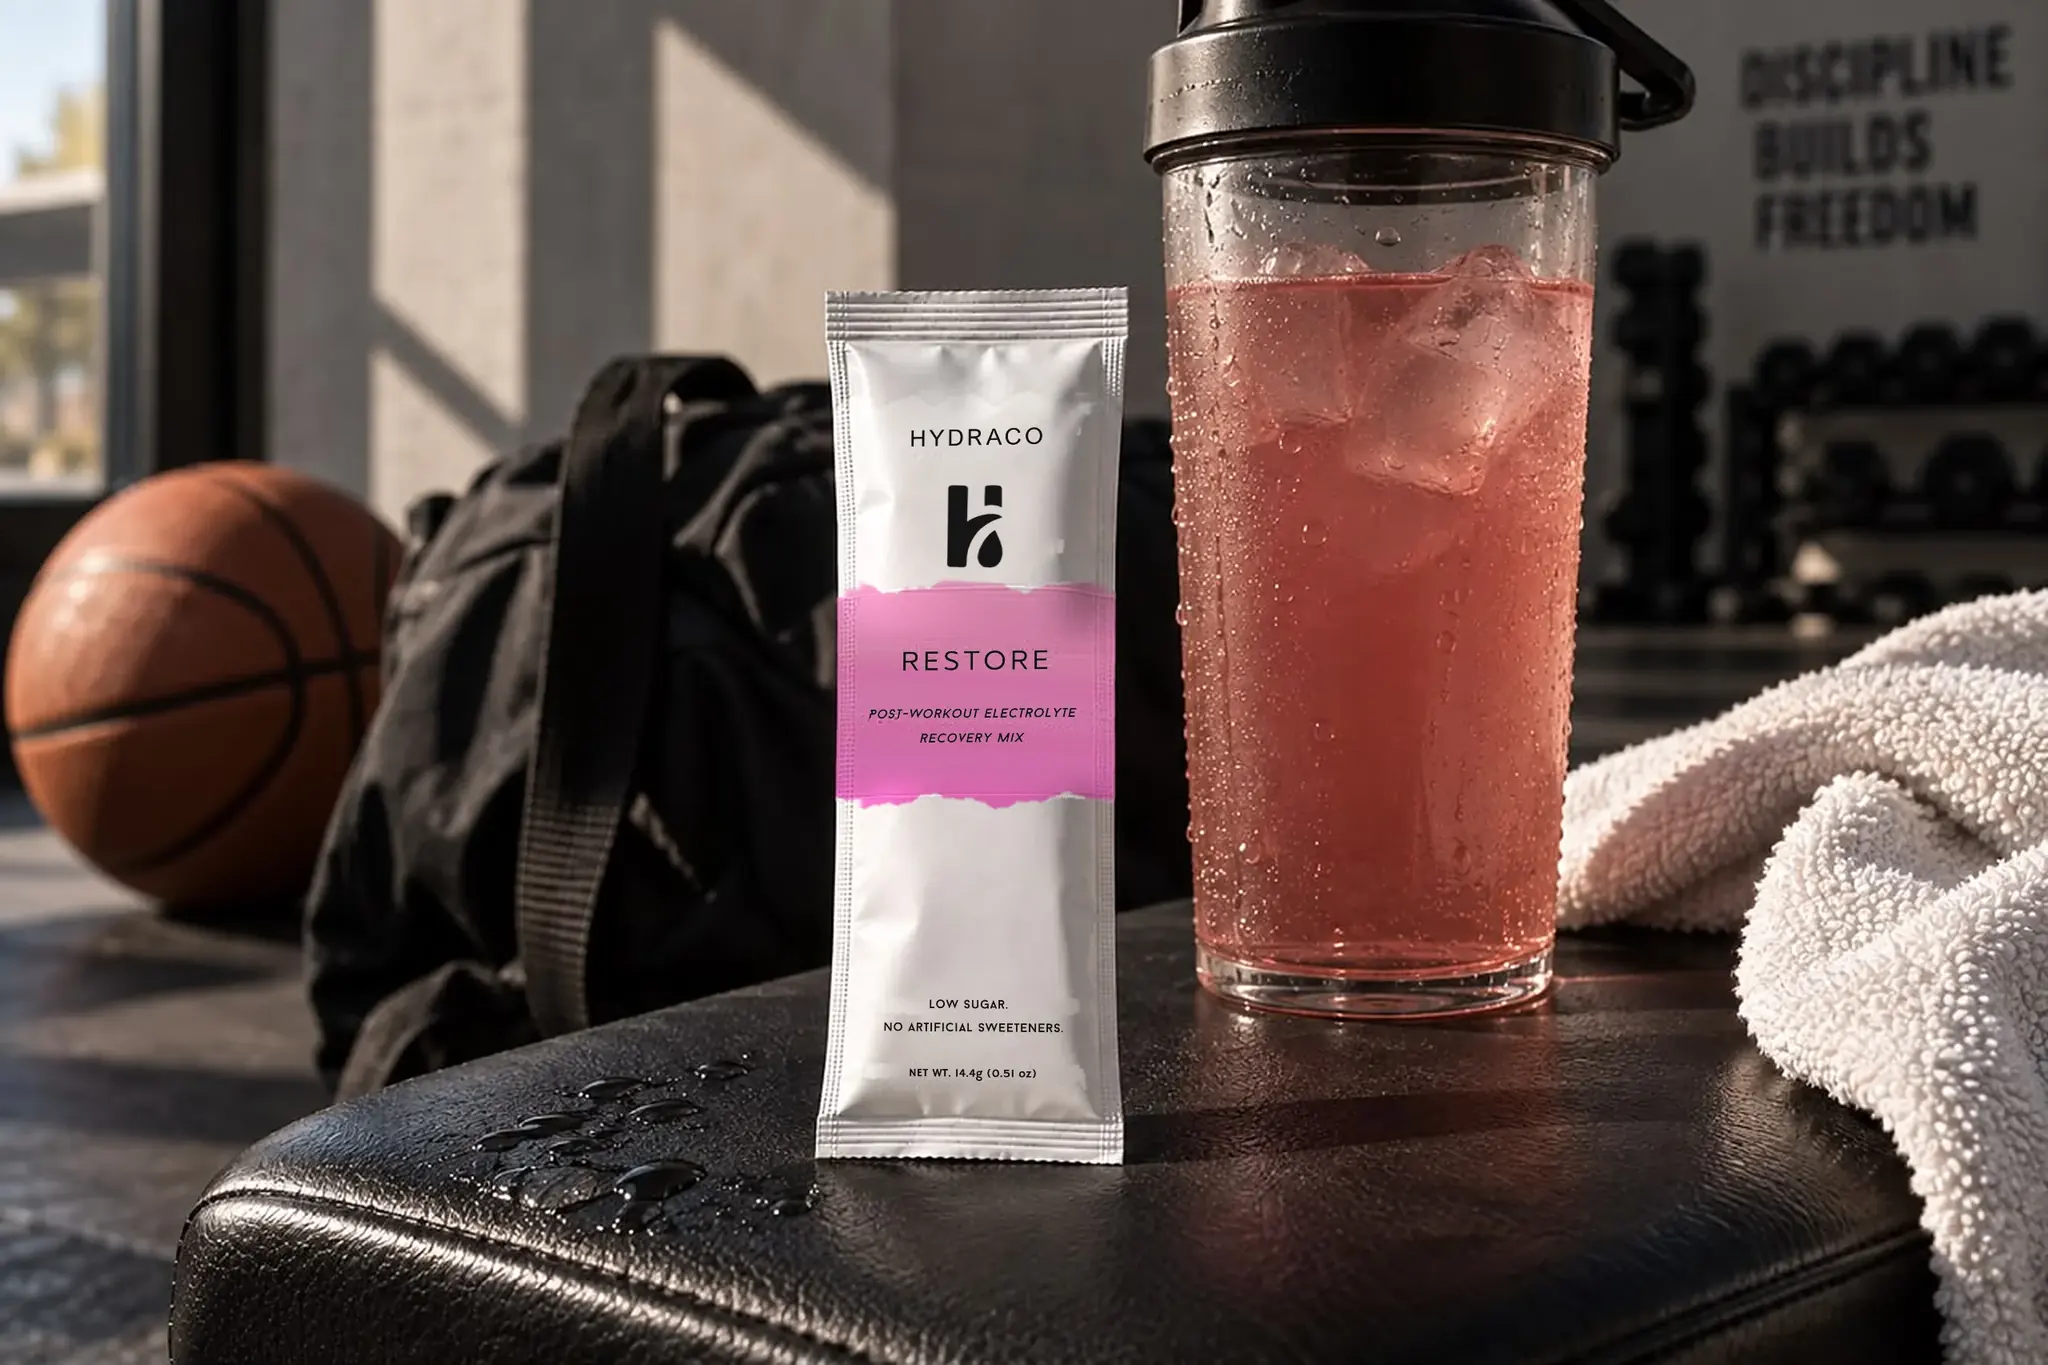
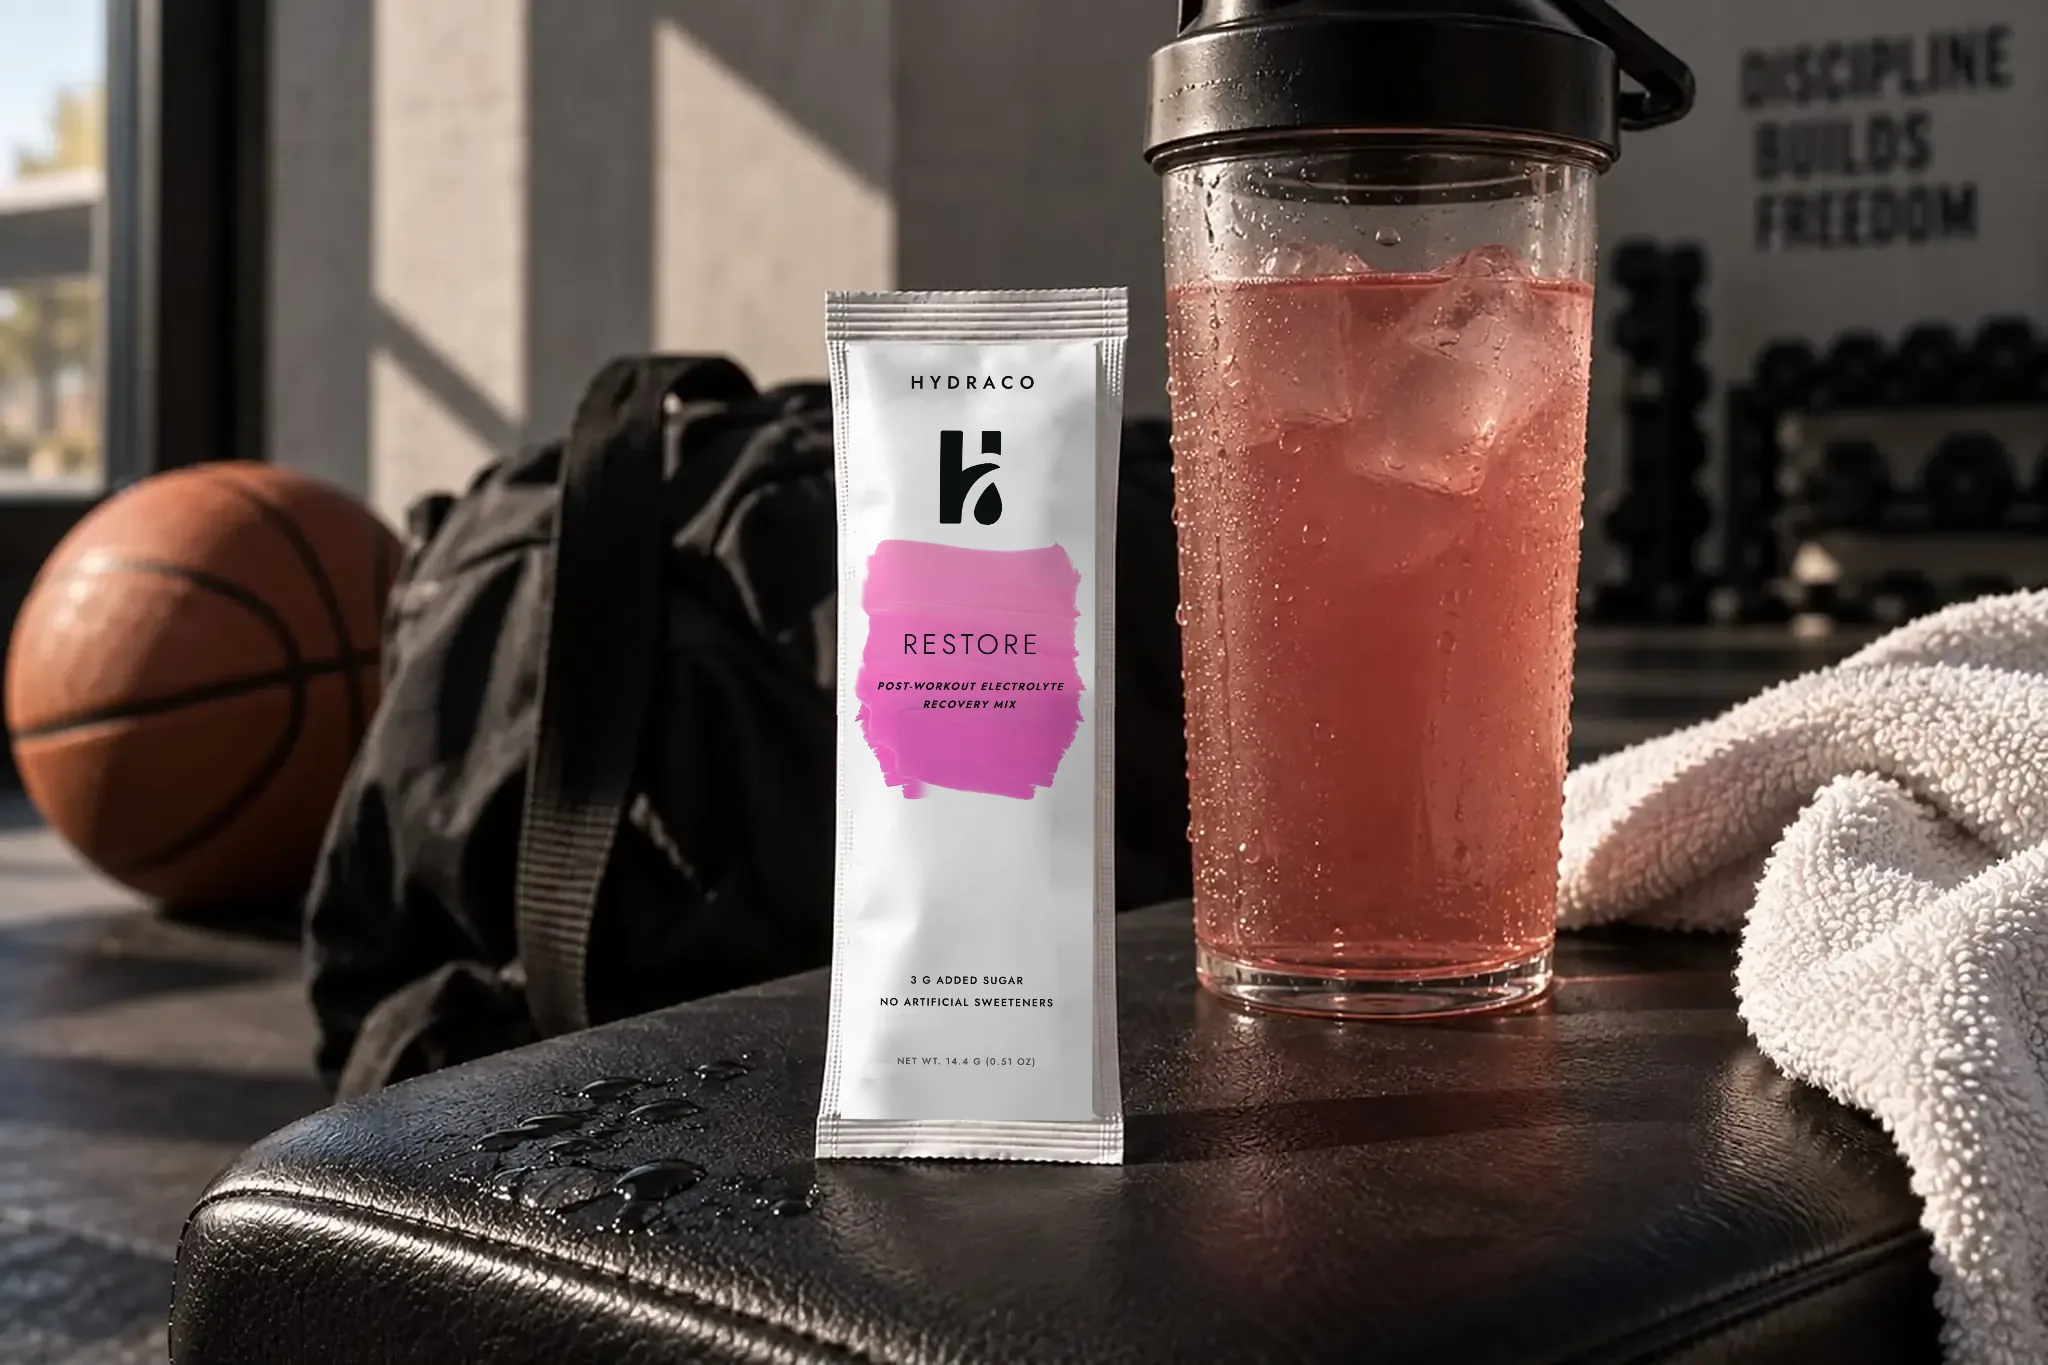
Show the new pack design in every product photo (Restore and Hydrapro)

Changed region(s): [[0.4062, 0.2462, 0.5625, 0.8308]]

diff --git a/index.html b/index.html
@@ -22,13 +22,13 @@
 <meta property="og:title" content="Hydraco Restore — Post-Workout Electrolyte Recovery Mix">
 <meta property="og:description" content="Hydraco Restore is a strawberry lemonade post-workout electrolyte recovery mix — low sugar, no artificial sweeteners, with tart cherry and pomegranate. Designed for recovery, not stimulation.">
 <meta property="og:url" content="https://www.drinkhydraco.com/">
-<meta property="og:image" content="https://www.drinkhydraco.com/images/og.jpg?v=pack7">
+<meta property="og:image" content="https://www.drinkhydraco.com/images/og.jpg?v=pack9">
 <meta property="og:image:width" content="1200">
 <meta property="og:image:height" content="630">
 <meta property="og:image:alt" content="A Hydraco Restore stick pack beside a glass of the prepared drink in a gym">
 <meta name="twitter:card" content="summary_large_image">
-<meta name="twitter:image" content="https://www.drinkhydraco.com/images/og.jpg?v=pack7">
-<script type="application/ld+json">[{"@context": "https://schema.org", "@type": "Organization", "name": "Hydraco", "legalName": "Hydraco, LLC", "url": "https://www.drinkhydraco.com/", "logo": "https://www.drinkhydraco.com/images/apple-touch-icon.png", "email": "hydracompanymd@gmail.com", "sameAs": ["https://www.instagram.com/hydracofficial"]}, {"@context": "https://schema.org", "@type": "Product", "name": "Hydraco Restore", "description": "Hydraco Restore is a strawberry lemonade post-workout electrolyte recovery mix — low sugar, no artificial sweeteners, with tart cherry and pomegranate. Designed for recovery, not stimulation.", "image": "https://www.drinkhydraco.com/images/og.jpg?v=pack7", "brand": {"@type": "Brand", "name": "Hydraco"}, "category": "Electrolyte drink mix", "offers": {"@type": "AggregateOffer", "priceCurrency": "USD", "lowPrice": "2.45", "highPrice": "89.55", "offerCount": 4, "availability": "https://schema.org/InStock", "url": "https://www.drinkhydraco.com/#order"}}, {"@context": "https://schema.org", "@type": "Product", "name": "Hydraco Hydrapro", "description": "Hydraco Hydrapro is the Restore strawberry lemonade recovery mix with more electrolytes and over 1 billion CFU of the probiotic Bacillus coagulans per stick — low sugar, no artificial sweeteners.", "image": "https://www.drinkhydraco.com/images/og.jpg?v=pack7", "brand": {"@type": "Brand", "name": "Hydraco"}, "category": "Electrolyte drink mix", "offers": {"@type": "AggregateOffer", "priceCurrency": "USD", "lowPrice": "14.95", "highPrice": "112.05", "offerCount": 4, "availability": "https://schema.org/InStock", "url": "https://www.drinkhydraco.com/#order"}}, {"@context": "https://schema.org", "@type": "FAQPage", "mainEntity": [{"@type": "Question", "name": "How do I use it?", "acceptedAnswer": {"@type": "Answer", "text": "Pour one stick pack into 16–32 oz of cold water, shake or stir, and drink it after training. One stick is one serving."}}, {"@type": "Question", "name": "How do I pay?", "acceptedAnswer": {"@type": "Answer", "text": "By Zelle, Apple Cash, or card — pick one in the order form. Card and Apple Pay payments go through Stripe's secure checkout; we never see or store your card number."}}, {"@type": "Question", "name": "Where do you deliver, and what does it cost?", "acceptedAnswer": {"@type": "Answer", "text": "Delivery is free in NYC and in Maryland, D.C. and Virginia, within about an hour of our office. Anywhere else, including internationally, email us for a delivery quote before you order."}}, {"@type": "Question", "name": "When will my order arrive?", "acceptedAnswer": {"@type": "Answer", "text": "Usually within a few days. Restore is made in small batches and orders are filled in the order they come in; we email you to confirm your delivery date, usually within one business day."}}, {"@type": "Question", "name": "How should I store it?", "acceptedAnswer": {"@type": "Answer", "text": "In a cool, dry place. Best before one year after opening."}}, {"@type": "Question", "name": "Is it safe for me?", "acceptedAnswer": {"@type": "Answer", "text": "It's a food, not a medicine. The full notice, allergen and cottage-food details are in the footer below."}}]}]</script>
+<meta name="twitter:image" content="https://www.drinkhydraco.com/images/og.jpg?v=pack9">
+<script type="application/ld+json">[{"@context": "https://schema.org", "@type": "Organization", "name": "Hydraco", "legalName": "Hydraco, LLC", "url": "https://www.drinkhydraco.com/", "logo": "https://www.drinkhydraco.com/images/apple-touch-icon.png", "email": "hydracompanymd@gmail.com", "sameAs": ["https://www.instagram.com/hydracofficial"]}, {"@context": "https://schema.org", "@type": "Product", "name": "Hydraco Restore", "description": "Hydraco Restore is a strawberry lemonade post-workout electrolyte recovery mix — low sugar, no artificial sweeteners, with tart cherry and pomegranate. Designed for recovery, not stimulation.", "image": "https://www.drinkhydraco.com/images/og.jpg?v=pack9", "brand": {"@type": "Brand", "name": "Hydraco"}, "category": "Electrolyte drink mix", "offers": {"@type": "AggregateOffer", "priceCurrency": "USD", "lowPrice": "2.45", "highPrice": "89.55", "offerCount": 4, "availability": "https://schema.org/InStock", "url": "https://www.drinkhydraco.com/#order"}}, {"@context": "https://schema.org", "@type": "Product", "name": "Hydraco Hydrapro", "description": "Hydraco Hydrapro is the Restore strawberry lemonade recovery mix with more electrolytes and over 1 billion CFU of the probiotic Bacillus coagulans per stick — low sugar, no artificial sweeteners.", "image": "https://www.drinkhydraco.com/images/og.jpg?v=pack9", "brand": {"@type": "Brand", "name": "Hydraco"}, "category": "Electrolyte drink mix", "offers": {"@type": "AggregateOffer", "priceCurrency": "USD", "lowPrice": "14.95", "highPrice": "112.05", "offerCount": 4, "availability": "https://schema.org/InStock", "url": "https://www.drinkhydraco.com/#order"}}, {"@context": "https://schema.org", "@type": "FAQPage", "mainEntity": [{"@type": "Question", "name": "How do I use it?", "acceptedAnswer": {"@type": "Answer", "text": "Pour one stick pack into 16–32 oz of cold water, shake or stir, and drink it after training. One stick is one serving."}}, {"@type": "Question", "name": "How do I pay?", "acceptedAnswer": {"@type": "Answer", "text": "By Zelle, Apple Cash, or card — pick one in the order form. Card and Apple Pay payments go through Stripe's secure checkout; we never see or store your card number."}}, {"@type": "Question", "name": "Where do you deliver, and what does it cost?", "acceptedAnswer": {"@type": "Answer", "text": "Delivery is free in NYC and in Maryland, D.C. and Virginia, within about an hour of our office. Anywhere else, including internationally, email us for a delivery quote before you order."}}, {"@type": "Question", "name": "When will my order arrive?", "acceptedAnswer": {"@type": "Answer", "text": "Usually within a few days. Restore is made in small batches and orders are filled in the order they come in; we email you to confirm your delivery date, usually within one business day."}}, {"@type": "Question", "name": "How should I store it?", "acceptedAnswer": {"@type": "Answer", "text": "In a cool, dry place. Best before one year after opening."}}, {"@type": "Question", "name": "Is it safe for me?", "acceptedAnswer": {"@type": "Answer", "text": "It's a food, not a medicine. The full notice, allergen and cottage-food details are in the footer below."}}]}]</script>
 <meta name="theme-color" content="#00a9ac">
 <link rel="preconnect" href="https://fonts.googleapis.com">
 <link rel="preconnect" href="https://fonts.gstatic.com" crossorigin>
@@ -3507,7 +3507,7 @@ body:not(.fun-mode) .galaxy-bg *{animation-play-state:paused!important}
     </div>
 
     <div class="hero-photo">
-      <img data-photo="hero" src="/images/hero.webp?v=pack8" class="photo-frame" alt="HYDRACO Restore post-workout electrolyte recovery mix packet, standing beside a glass of the prepared drink" width="853" height="1280" fetchpriority="high">
+      <img data-photo="hero" src="/images/hero.webp?v=pack9" class="photo-frame" alt="HYDRACO Restore post-workout electrolyte recovery mix packet, standing beside a glass of the prepared drink" width="853" height="1280" fetchpriority="high">
     </div>
   </header>
 
@@ -3549,7 +3549,7 @@ body:not(.fun-mode) .galaxy-bg *{animation-play-state:paused!important}
   <section id="why">
    <div class="why-grid">
     <div class="why-photo rv">
-      <img data-photo="why-recovery" src="/images/why-recovery.webp?v=pack8" class="photo-frame" alt="HYDRACO Restore electrolyte recovery drink after training" loading="lazy" decoding="async" width="1280" height="853">
+      <img data-photo="why-recovery" src="/images/why-recovery.webp?v=pack9" class="photo-frame" alt="HYDRACO Restore electrolyte recovery drink after training" loading="lazy" decoding="async" width="1280" height="853">
     </div>
     <div class="why-text rv">
     <div class="sec-head">
@@ -3611,7 +3611,7 @@ body:not(.fun-mode) .galaxy-bg *{animation-play-state:paused!important}
 
   <!-- ============ GYM / RECOVERY BAND ============ -->
   <div class="gym-band rv" aria-label="HYDRACO Restore in a post-workout gym setting">
-    <img data-photo="gym-band" src="/images/gym-band.webp?v=pack8" alt="HYDRACO Restore electrolyte packet and drink in a post-workout gym setting" loading="lazy" decoding="async" width="1280" height="853">
+    <img data-photo="gym-band" src="/images/gym-band.webp?v=pack9" alt="HYDRACO Restore electrolyte packet and drink in a post-workout gym setting" loading="lazy" decoding="async" width="1280" height="853">
     <div class="gym-band-copy">
       <p data-only="restore">Built for the hours after, not the minutes during.</p>
       <p data-only="hydrapro">For the long, sweaty sessions &mdash; and the hours after.</p>
@@ -3977,8 +3977,8 @@ body:not(.fun-mode) .galaxy-bg *{animation-play-state:paused!important}
         </div>
 
         <div class="inside-photos rv">
-          <img data-photo="inside-packet" src="/images/inside-packet.webp?v=pack8" class="photo-frame" alt="HYDRACO Restore electrolyte packet beside a glass of the prepared electrolyte drink" loading="lazy" width="608" height="760">
-          <img data-photo="inside-pour" src="/images/inside-pour.webp?v=pack8" class="photo-frame" alt="HYDRACO Restore electrolyte powder being poured into an iced drink" loading="lazy" width="760" height="506">
+          <img data-photo="inside-packet" src="/images/inside-packet.webp?v=pack9" class="photo-frame" alt="HYDRACO Restore electrolyte packet beside a glass of the prepared electrolyte drink" loading="lazy" width="608" height="760">
+          <img data-photo="inside-pour" src="/images/inside-pour.webp?v=pack9" class="photo-frame" alt="HYDRACO Restore electrolyte powder being poured into an iced drink" loading="lazy" width="760" height="506">
         </div>
       </div>
 
@@ -4429,8 +4429,8 @@ body:not(.fun-mode) .galaxy-bg *{animation-play-state:paused!important}
       </div>
 
       <div class="hp-photos">
-        <img data-photo="inside-packet" src="/images/inside-packet.webp?v=pack8" class="photo-frame" alt="HYDRACO Hydrapro electrolyte packet beside a glass of the prepared drink" loading="lazy" width="608" height="760">
-        <img data-photo="inside-pour" src="/images/inside-pour.webp?v=pack8" class="photo-frame" alt="HYDRACO Hydrapro powder being poured into an iced drink" loading="lazy" width="760" height="506">
+        <img data-photo="inside-packet" src="/images/inside-packet.webp?v=pack9" class="photo-frame" alt="HYDRACO Hydrapro electrolyte packet beside a glass of the prepared drink" loading="lazy" width="608" height="760">
+        <img data-photo="inside-pour" src="/images/inside-pour.webp?v=pack9" class="photo-frame" alt="HYDRACO Hydrapro powder being poured into an iced drink" loading="lazy" width="760" height="506">
       </div>
 
       <!-- HYDRAPRO NUTRITION: the Nutrition Facts panel and the sodium / potassium / magnesium
@@ -4914,7 +4914,7 @@ body:not(.fun-mode) .galaxy-bg *{animation-play-state:paused!important}
       </form>
 
       <div class="preorder-photo rv">
-        <img data-photo="preorder" src="/images/preorder.webp?v=pack8" class="photo-frame" alt="Three HYDRACO Restore electrolyte recovery mix packets" loading="lazy" width="720" height="900">
+        <img data-photo="preorder" src="/images/preorder.webp?v=pack9" class="photo-frame" alt="Three HYDRACO Restore electrolyte recovery mix packets" loading="lazy" width="720" height="900">
       </div>
 
     </div>
@@ -5259,7 +5259,7 @@ const PRODUCT_DESC = {
 const calmMotion = () => window.matchMedia("(prefers-reduced-motion: reduce)").matches;
 const START_PACK = { restore: 19, hydrapro: 19, mix: 19 };
 const photoSrc = (name, p) => p === "hydrapro"
-  ? "/images/hp/" + name + ".webp?v=hp3" : "/images/" + name + ".webp?v=pack8";
+  ? "/images/hp/" + name + ".webp?v=hp4" : "/images/" + name + ".webp?v=pack9";
 
 const PAGE_TITLE = {
   restore: "Hydraco Restore — Post-Workout Electrolyte Recovery Mix",
